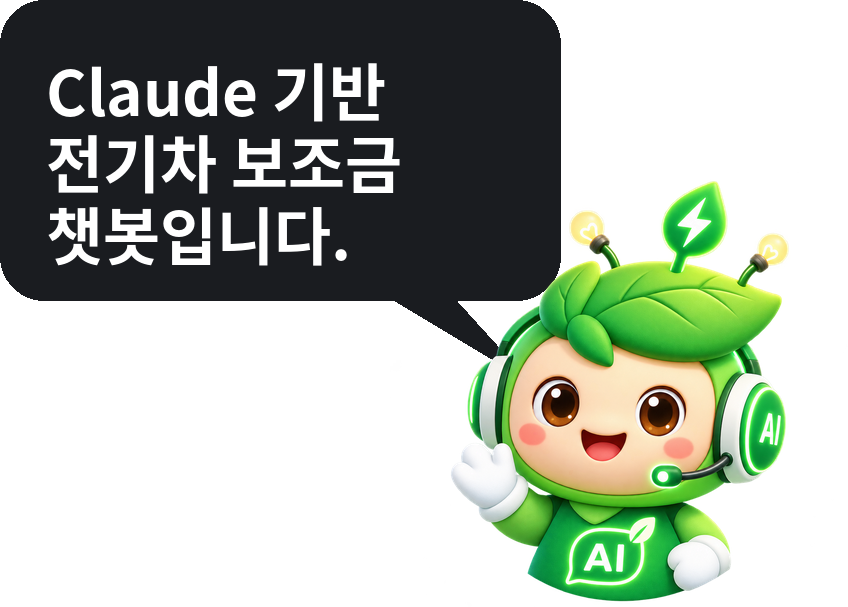
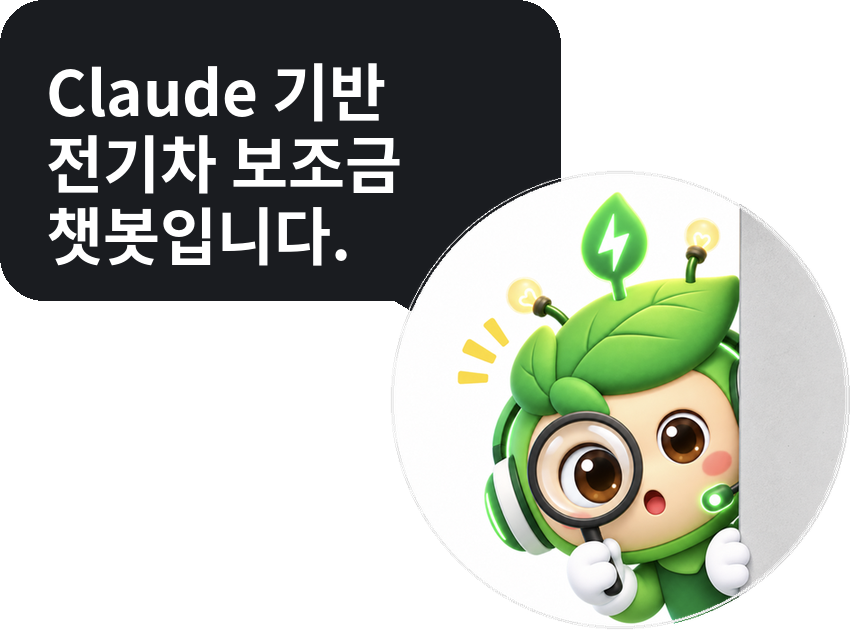
챗봇 아이콘 이미지 교체
- mascot.png, chat_mascot.png를 새 이미지(돋보기 마스코트)로 교체
- chat_mascot.png 비율 변경(850x630)에 맞춰 말풍선 버튼 크기 280x208

Changed region(s): [[0.0, 0.2669, 1.0, 1.0], [0.0613, 0.089, 0.4906, 0.4448]]

diff --git a/web/components/ChatWidget.tsx b/web/components/ChatWidget.tsx
@@ -201,7 +201,7 @@ export function ChatWidget({ region }: Props) {
             src="/chat_mascot.png"
             alt=""
             width={280}
-            height={200}
+            height={208}
             loading="eager"
             onError={() => setBubbleFailed(true)}
           />
